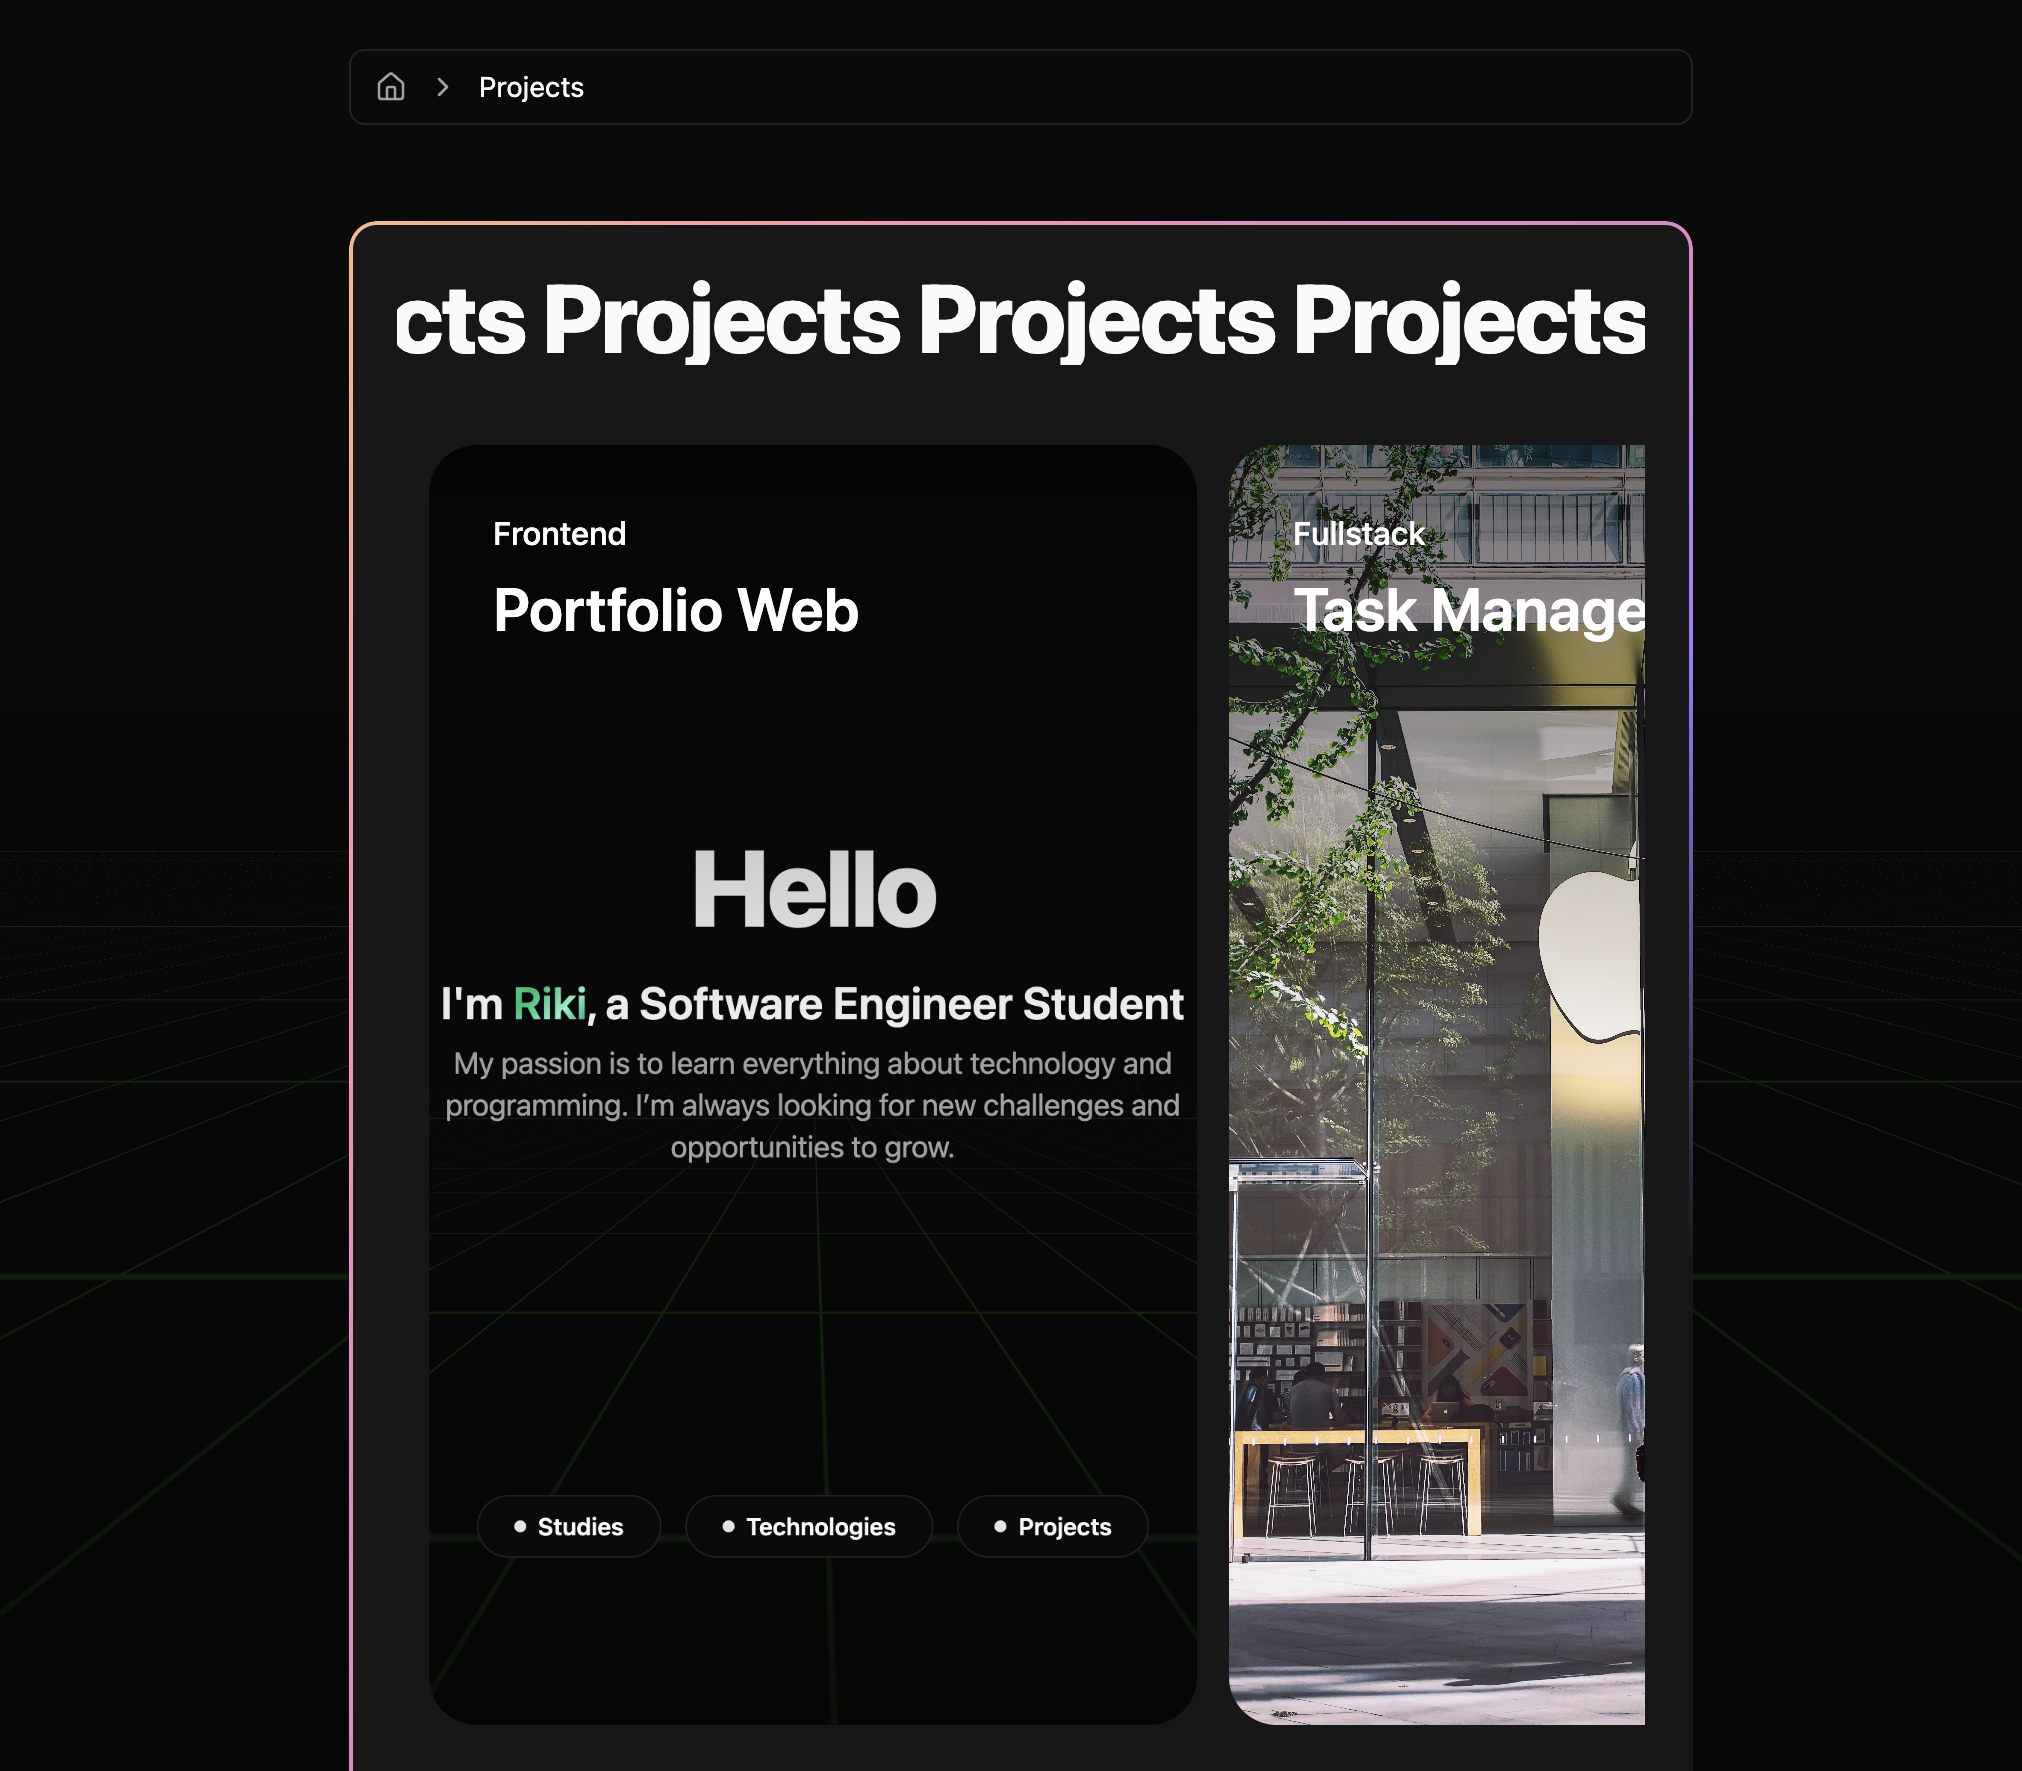
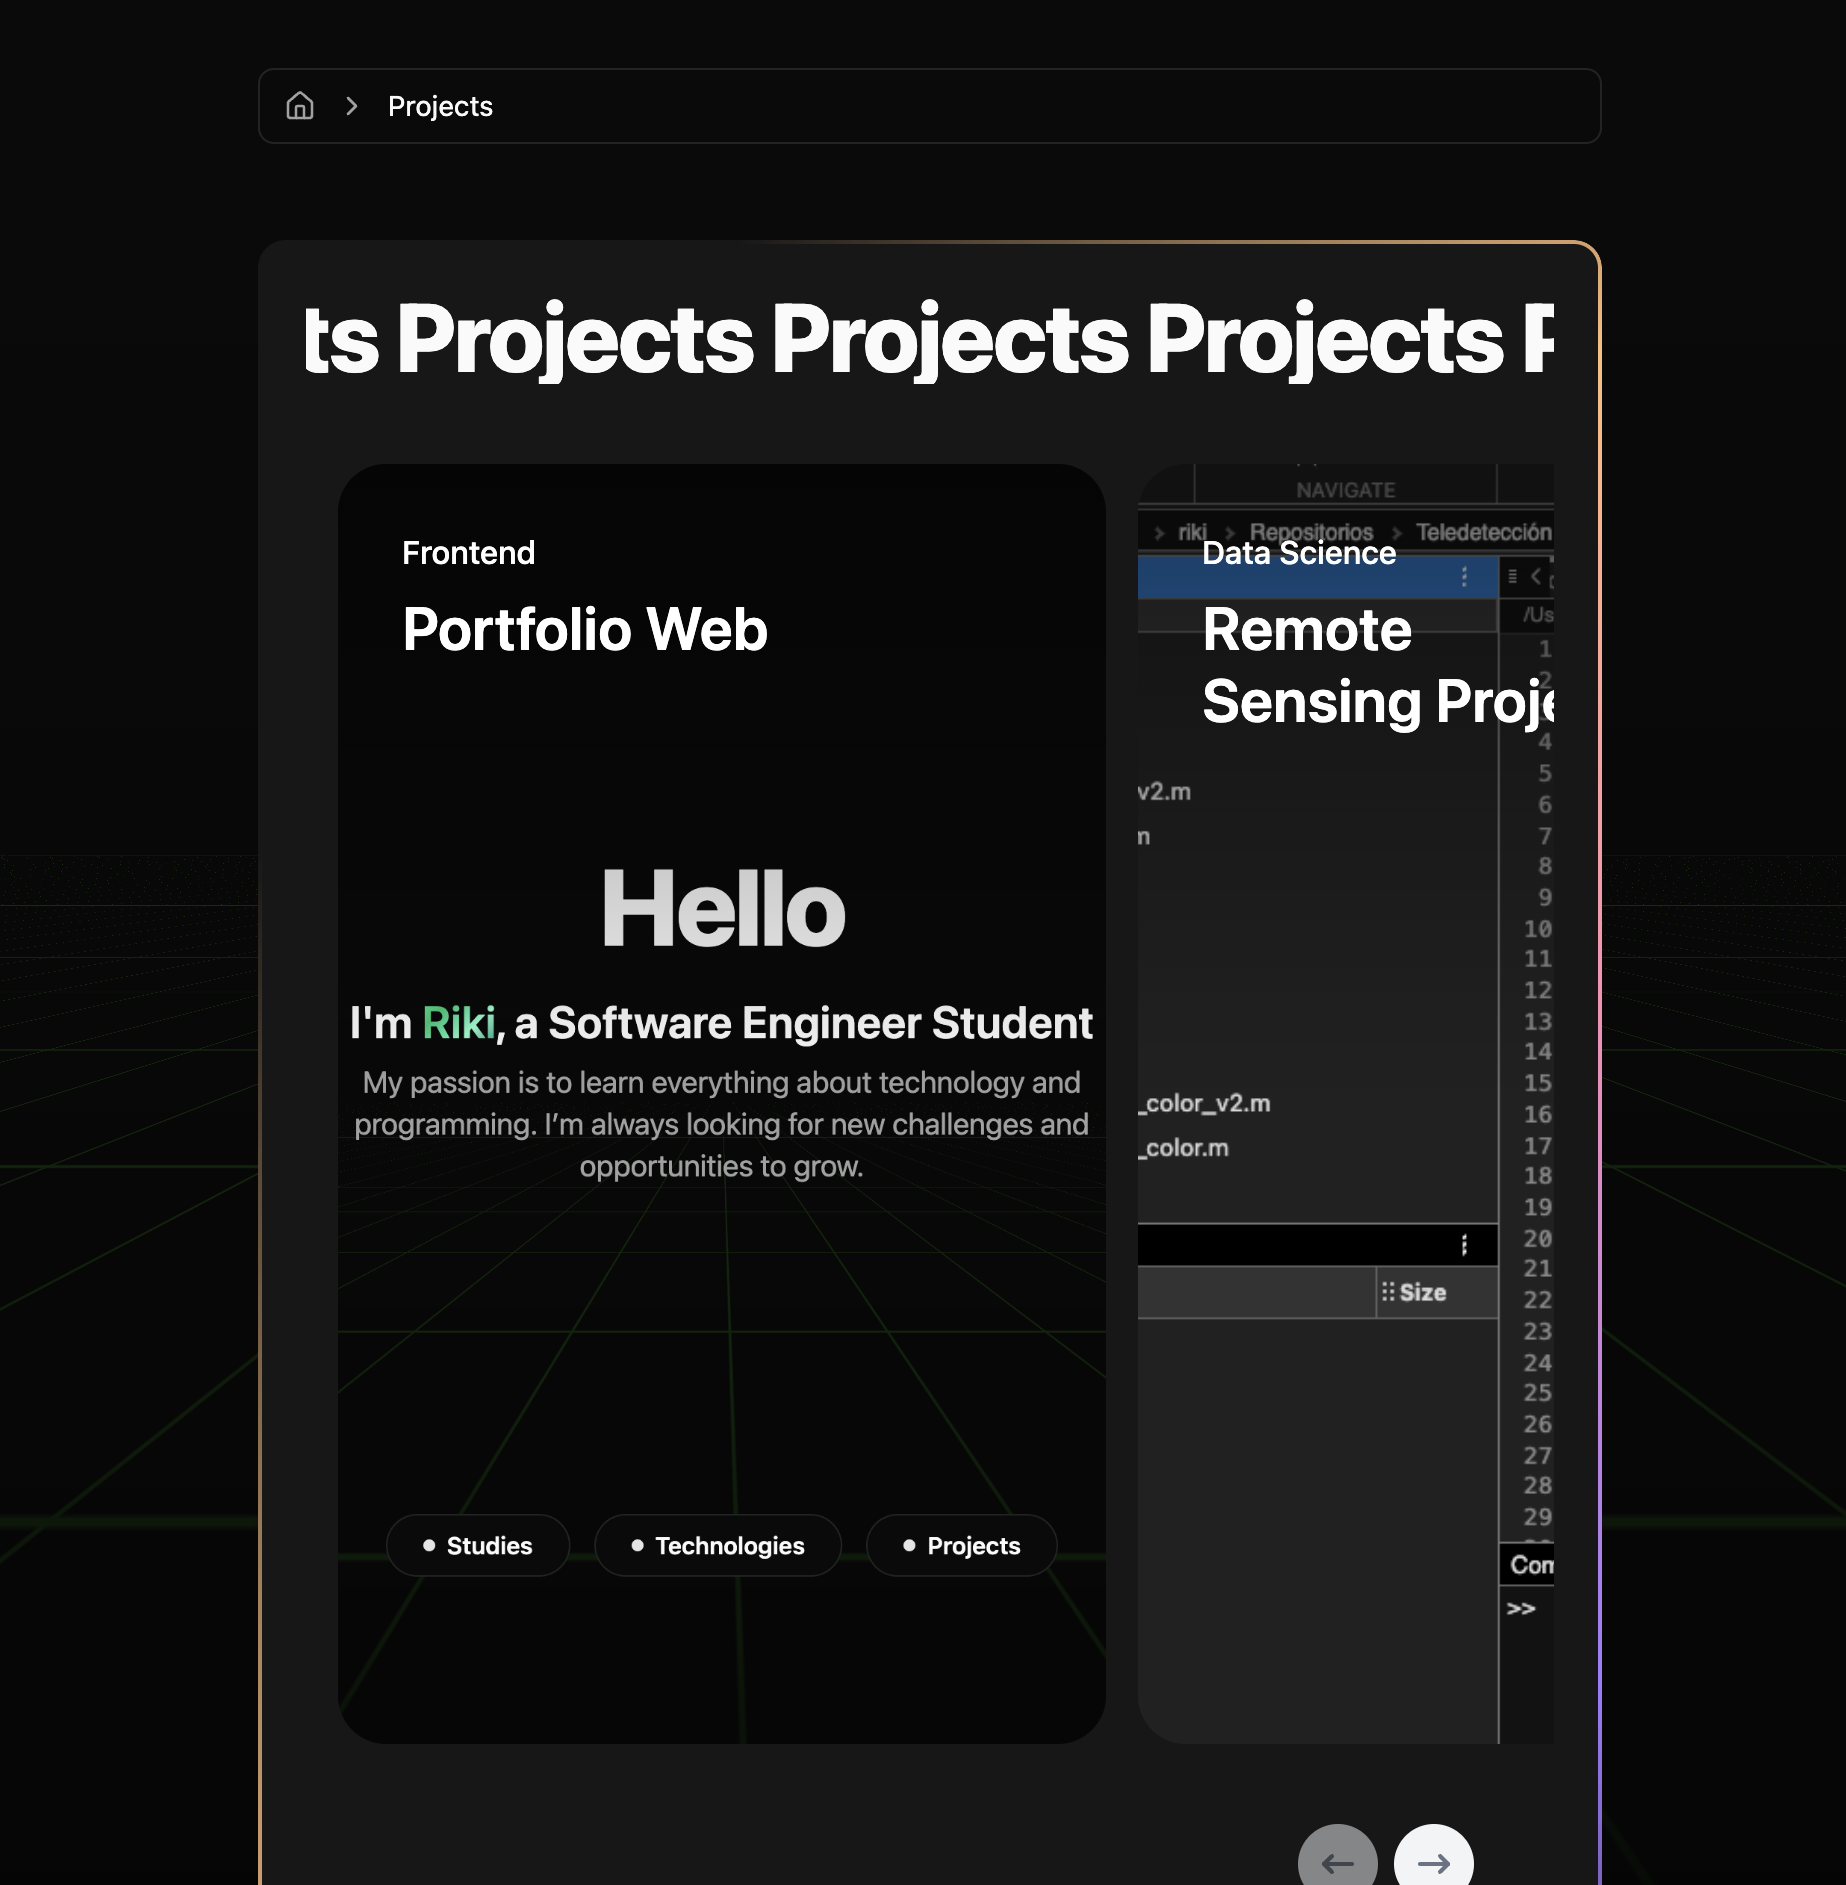
feat(Proyectos): add new projects with images and descriptions
Add new projects "Cryptography Project" and "MapYourWorld" to the Proyectos component, including detailed descriptions, tags, and associated images. This enhances the portfolio section with additional content and showcases relevant skills and projects.

diff --git a/src/components/pages/Proyectos.tsx b/src/components/pages/Proyectos.tsx
@@ -172,6 +172,131 @@ const proyectos = [
       </div>
     ),
   },
+  {
+    src: "/images/cripto.png",
+    title: "Cryptography Project",
+    category: "Cybersecurity",
+    content: (
+      <div className="flex flex-col gap-8">
+        {/* Tags and buttons */}
+        <div className="flex gap-2 flex-wrap justify-center mt-4">
+          <span className="bg-primary text-primary-foreground px-2 py-0.5 rounded-full text-xs">Python</span>
+          <span className="bg-primary text-primary-foreground px-2 py-0.5 rounded-full text-xs">Cryptography</span>
+          <span className="bg-primary text-primary-foreground px-2 py-0.5 rounded-full text-xs">RSA</span>
+          <span className="bg-primary text-primary-foreground px-2 py-0.5 rounded-full text-xs">AES</span>
+          <span className="bg-primary text-primary-foreground px-2 py-0.5 rounded-full text-xs">Security</span>
+        </div>
+        {/* Introduction */}
+        <div className="bg-[#F5F5F7] dark:bg-neutral-800 p-8 md:p-14 rounded-3xl flex flex-col items-center gap-6">
+          <h3 className="text-2xl md:text-3xl font-bold text-neutral-800 dark:text-neutral-100 mb-2 text-center">Cryptographic Algorithms Implementation</h3>
+          <p className="text-neutral-600 dark:text-neutral-400 text-base md:text-xl font-sans max-w-2xl mx-auto text-center">
+            <span className="font-bold text-neutral-700 dark:text-neutral-200">High-speed medical image encryption.</span> This project presents an innovative approach for securing medical images using high-speed shuffling and adaptive pixel diffusion techniques, ensuring robust protection and confidentiality for sensitive healthcare data.
+          </p>
+          <CardContainer>
+            <CardItem translateZ={100}>
+              <img
+                src="/images/cripto.png"
+                alt="Cryptography Project preview"
+                height="300"
+                width="300"
+                className="w-auto h-auto mx-auto object-contain rounded-xl shadow-lg"
+              />
+            </CardItem>
+          </CardContainer>
+        </div>
+        {/* Description */}
+        <div className="bg-[#F5F5F7] dark:bg-neutral-800 p-8 md:p-14 rounded-3xl flex flex-col items-center gap-6">
+          <h3 className="text-2xl md:text-3xl font-bold text-neutral-800 dark:text-neutral-100 mb-2 text-center">Secure Communication and Analysis</h3>
+          <p className="text-neutral-600 dark:text-neutral-400 text-base md:text-xl font-sans max-w-2xl mx-auto text-center">
+          <span className="font-bold text-neutral-700 dark:text-neutral-200">Web-based encryption and decryption of medical images.</span> This project, developed for the Cryptography course, consists of a web application that enables secure encryption and decryption of medical images using scrambling and diffusion techniques. It emphasizes practical data protection and highlights the importance of safeguarding sensitive medical information.
+          </p>
+          <CardContainer>
+            <CardItem translateZ={100}>
+              <img
+                src="/images/cifrado.png"
+                alt="Cryptanalysis preview"
+                height="300"
+                width="300"
+                className="w-auto h-auto mx-auto object-contain rounded-xl shadow-lg"
+              />
+            </CardItem>
+          </CardContainer>
+        </div>
+        <div className="flex gap-2 mt-4 justify-center">
+          <a href="https://github.com/pabolimor99/CriptoG-14" target="_blank" rel="noopener noreferrer">
+            <RainbowButton>Repository</RainbowButton>
+          </a>
+          <a href="https://github.com/pabolimor99/CriptoG-14/blob/main/doc/Proyecto_C.pdf" target="_blank" rel="noopener noreferrer">
+            <RainbowButton>Paper</RainbowButton>
+          </a>
+        </div>
+      </div>
+    ),
+  },
+  {
+    src: "/images/myw.jpg",
+    title: "MapYourWorld",
+    category: "Full-Stack Development",
+    content: (
+      <div className="flex flex-col gap-8">
+        {/* Tags and buttons */}
+        <div className="flex gap-2 flex-wrap justify-center mt-4">
+          <span className="bg-primary text-primary-foreground px-2 py-0.5 rounded-full text-xs">React</span>
+          <span className="bg-primary text-primary-foreground px-2 py-0.5 rounded-full text-xs">Spring Boot</span>
+          <span className="bg-primary text-primary-foreground px-2 py-0.5 rounded-full text-xs">PostgreSQL</span>
+          <span className="bg-primary text-primary-foreground px-2 py-0.5 rounded-full text-xs">Mapbox</span>
+          <span className="bg-primary text-primary-foreground px-2 py-0.5 rounded-full text-xs">Gamification</span>
+        </div>
+        {/* Introduction */}
+        <div className="bg-[#F5F5F7] dark:bg-neutral-800 p-8 md:p-14 rounded-3xl flex flex-col items-center gap-6">
+          <h3 className="text-2xl md:text-3xl font-bold text-neutral-800 dark:text-neutral-100 mb-2 text-center">Explore the World, One District at a Time</h3>
+          <p className="text-neutral-600 dark:text-neutral-400 text-base md:text-xl font-sans max-w-2xl mx-auto text-center">
+            <span className="font-bold text-neutral-700 dark:text-neutral-200">MapYourWorld is a geolocation-based app that encourages real-world exploration through gamification.</span> Users unlock areas, complete challenges, collect points of interest, and interact with a collaborative map to visualize their progress and achievements.
+          </p>
+          <CardContainer>
+            <CardItem translateZ={100}>
+              <img
+                src="/images/logo_myw.png"
+                alt="MapYourWorld Project preview"
+                height="300"
+                width="300"
+                className="w-auto h-75 mx-auto object-contain rounded-xl shadow-lg"
+              />
+            </CardItem>
+          </CardContainer>
+        </div>
+        {/* Description */}
+        <div className="bg-[#F5F5F7] dark:bg-neutral-800 p-8 md:p-14 rounded-3xl flex flex-col items-center gap-6">
+          <h3 className="text-2xl md:text-3xl font-bold text-neutral-800 dark:text-neutral-100 mb-2 text-center">Collaborative and Interactive Mapping Experience</h3>
+          <p className="text-neutral-600 dark:text-neutral-400 text-base md:text-xl font-sans max-w-2xl mx-auto text-center">
+            <span className="font-bold text-neutral-700 dark:text-neutral-200">Developed as part of a university software engineering project,</span> this platform combines Spring Boot, React, and Mapbox to provide a dynamic and scalable mapping experience. It features user authentication, achievement tracking, real-time map updates, and a premium model with exclusive content.
+          </p>
+          <CardContainer>
+            <CardItem translateZ={100}>
+              <img
+                src="/images/mapa_myw.jpeg"
+                alt="MapYourWorld map demo"
+                height="300"
+                width="300"
+                className="w-auto h-100 mx-auto object-contain rounded-xl shadow-lg"
+              />
+            </CardItem>
+          </CardContainer>
+        </div>
+        <div className="flex gap-2 mt-4 justify-center">
+          <a href="https://github.com/ISPP-Grupo-7/MapYourWorld" target="_blank" rel="noopener noreferrer">
+            <RainbowButton>Repository</RainbowButton>
+          </a>
+          <a href="https://mapyourworld.netlify.app/" target="_blank" rel="noopener noreferrer">
+            <RainbowButton>MapYourWorld Page</RainbowButton>
+          </a>
+          <a href="https://linktr.ee/mapyourworldapp" target="_blank" rel="noopener noreferrer">
+            <RainbowButton>MapYourWorld Social Media</RainbowButton>
+          </a>
+        </div>
+      </div>
+    ),
+  },
   // Puedes agregar más proyectos siguiendo esta estructura modular y elegante
 ];
 
